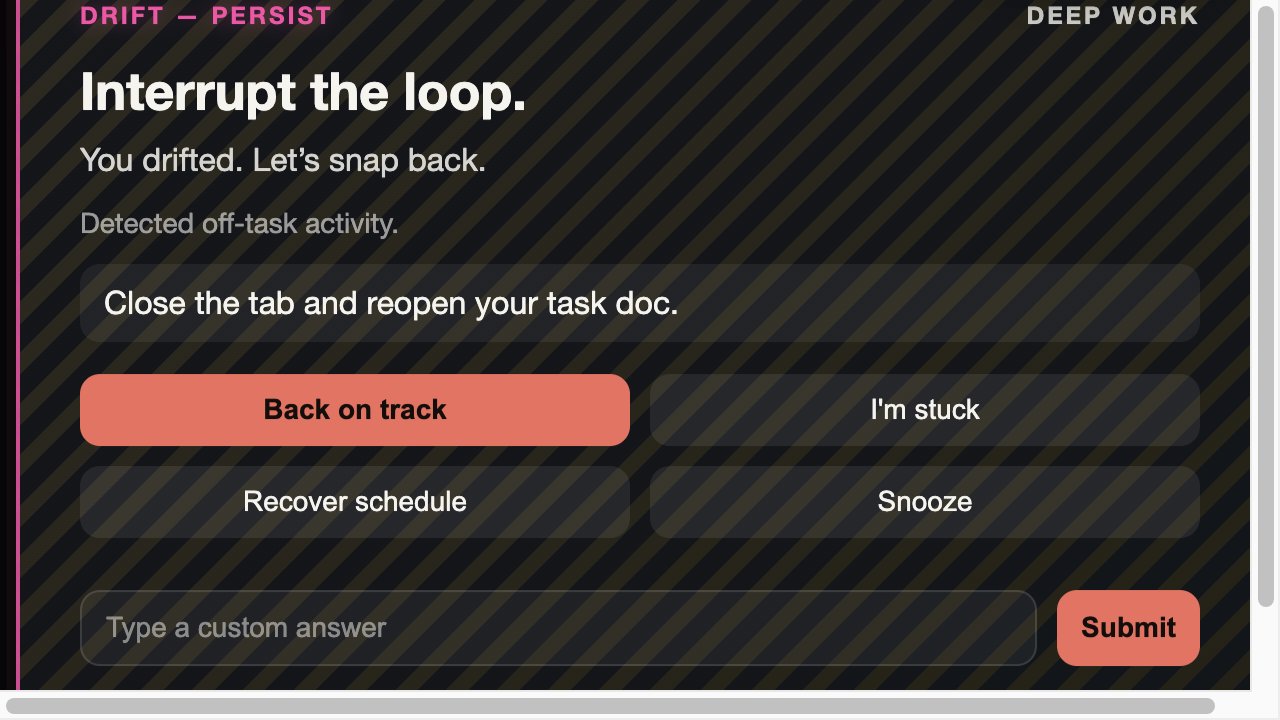
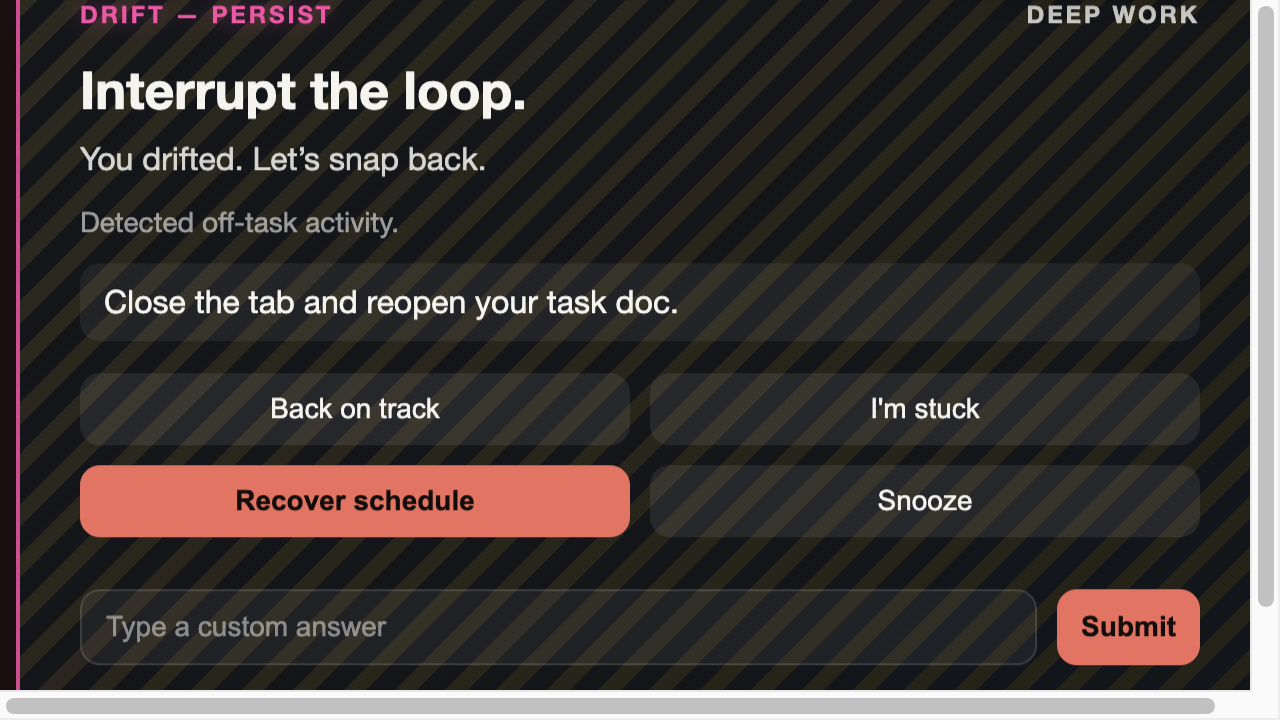
Overlay: make DRIFT_PERSIST default Enter action recover

diff --git a/overlay/overlay.js b/overlay/overlay.js
@@ -16,9 +16,11 @@ const backBtn = document.getElementById("backBtn");
 const stuckBtn = document.getElementById("stuckBtn");
 const recoverBtn = document.getElementById("recoverBtn");
 const snoozeBtn = document.getElementById("snoozeBtn");
+const primaryHint = document.getElementById("primaryHint");
 
 let shownAt = null;
 let currentPayload = null;
+let currentPrimaryAction = "back_on_track";
 
 function setText(el, value) {
   el.textContent = value || "";
@@ -53,6 +55,25 @@ function updateEventLabel(payload) {
   setText(eventLabel, eventType.replaceAll("_", " "));
 }
 
+function updatePrimaryAction(payload) {
+  const eventType = String(overlay.dataset.eventType || "").toUpperCase();
+
+  // For DRIFT_PERSIST, bias toward an immediate, concrete recovery move.
+  // We keep the Back-on-track button available, but make Recover the primary.
+  if (eventType === "DRIFT_PERSIST") {
+    currentPrimaryAction = "recover";
+    backBtn.classList.remove("primary");
+    recoverBtn.classList.add("primary");
+    if (primaryHint) setText(primaryHint, "Enter: Recover schedule");
+    return;
+  }
+
+  currentPrimaryAction = "back_on_track";
+  recoverBtn.classList.remove("primary");
+  backBtn.classList.add("primary");
+  if (primaryHint) setText(primaryHint, "Enter: Back on track");
+}
+
 function resetSnooze() {
   snooze.classList.add("hidden");
 }
@@ -68,6 +89,7 @@ function showOverlay(payload) {
   resetAlignInput();
   updateEventLabel(payload);
   updatePrimaryLabel(payload);
+  updatePrimaryAction(payload);
 
   if (payload.choices && Array.isArray(payload.choices)) {
     overlay.dataset.mode = "align";
@@ -165,7 +187,7 @@ window.addEventListener("keydown", (event) => {
   if (event.key === "Enter") {
     const ignoreEnter = window.overlayUtils?.shouldIgnoreGlobalEnter?.(event.target);
     if (!ignoreEnter) {
-      sendAction({ action: "back_on_track" });
+      sendAction({ action: currentPrimaryAction });
     }
   }
   if (event.key === "Escape") {

diff --git a/overlay/overlay.html b/overlay/overlay.html
@@ -39,7 +39,7 @@
         </div>
         <div id="miniPlan" class="mini-plan hidden"></div>
         <div class="footer">
-          <span>Enter: Back on track</span>
+          <span id="primaryHint">Enter: Back on track</span>
           <span>Esc: Snooze</span>
           <span>Cmd/Ctrl+Shift+P: Pause 15</span>
         </div>
